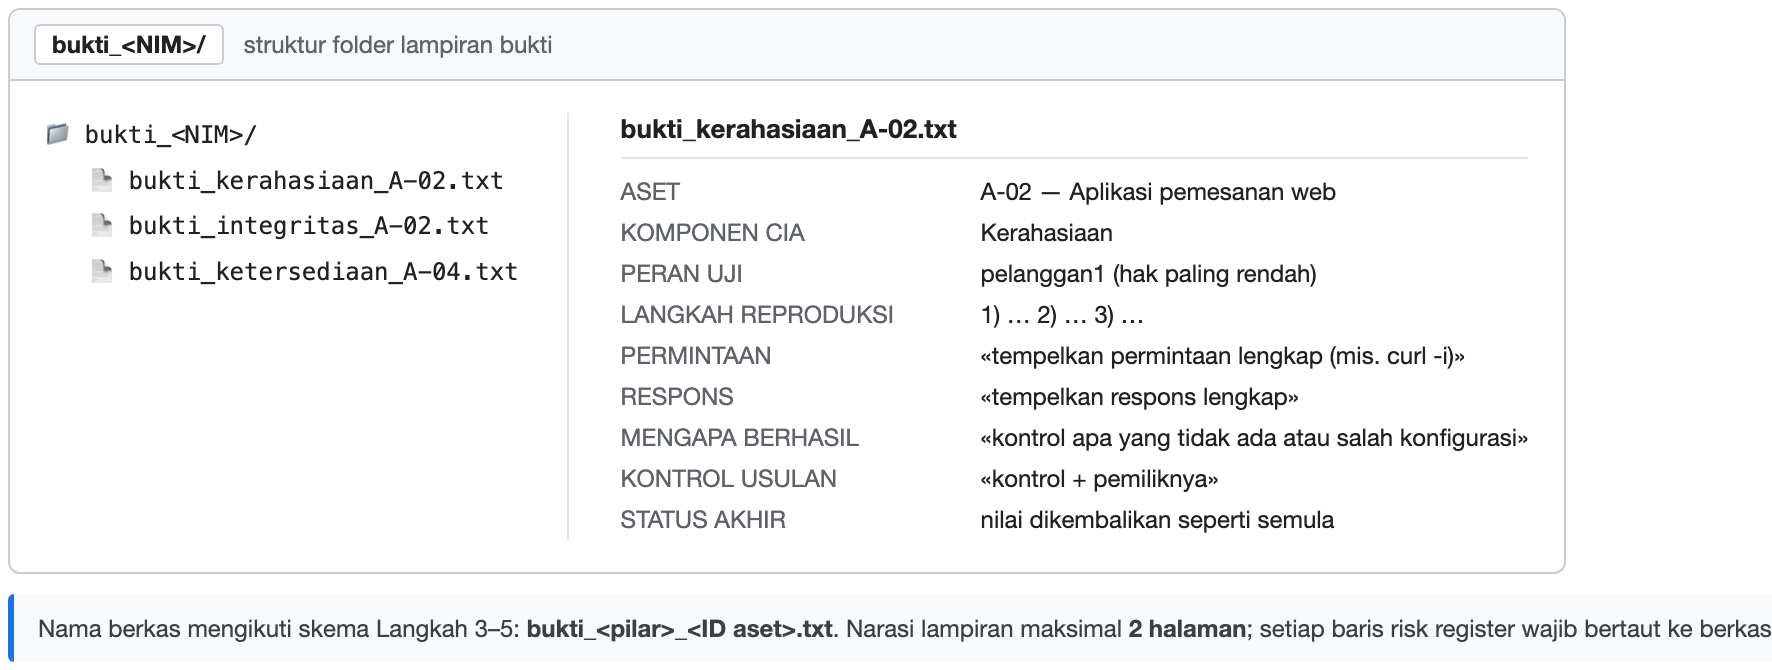
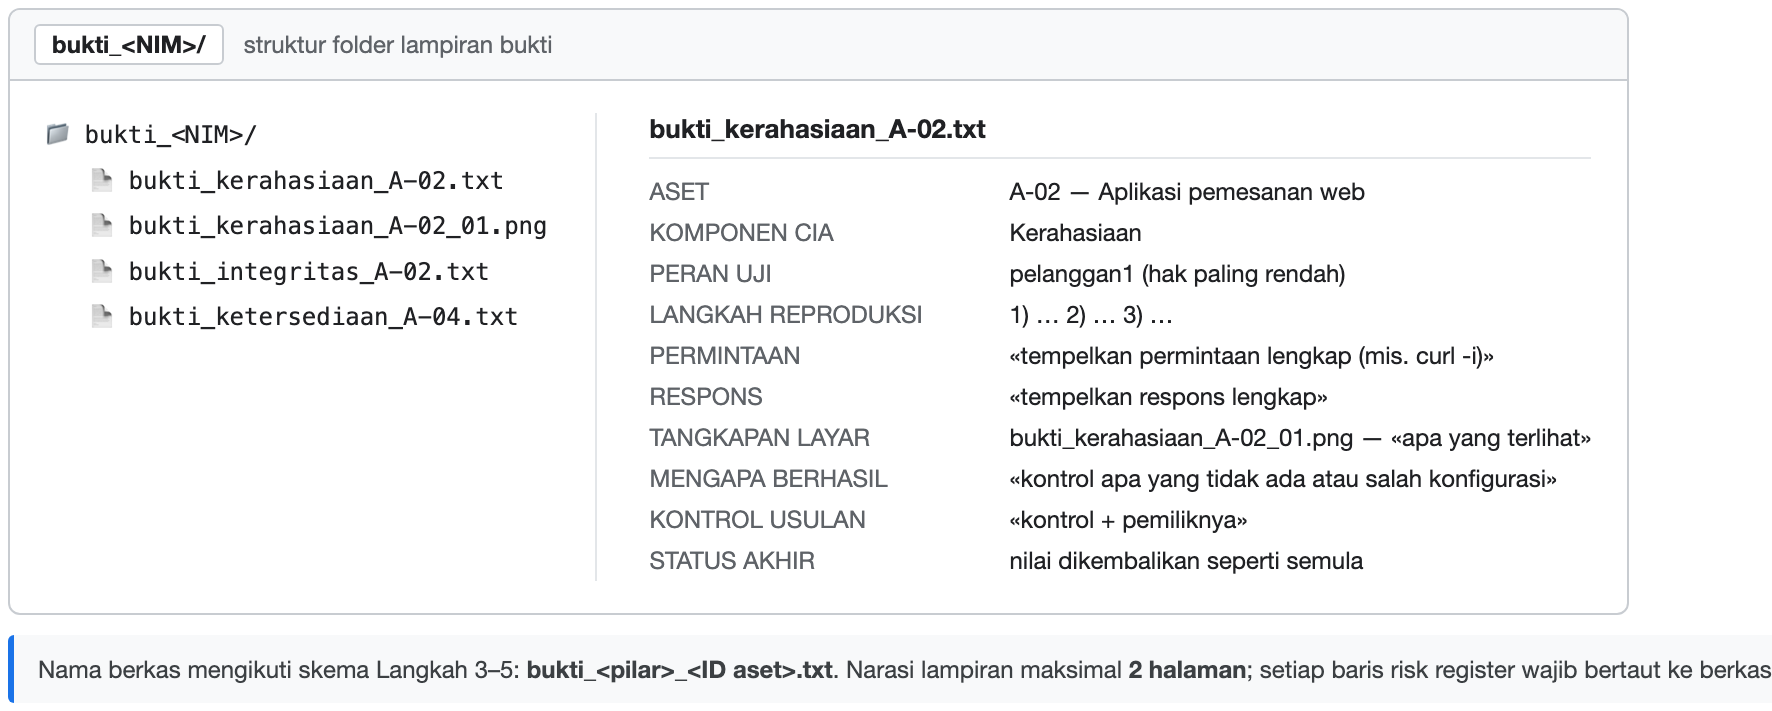
add: templates

diff --git a/README.md b/README.md
@@ -9,7 +9,7 @@ kerahasiaan, integritas, dan ketersediaan pada layanan pemesanan B2B fiktif mili
 
 ---
 
-## ⚠ 1. Baca dulu — aturan main
+## ⚠ 1. Baca dulu
 
 **Sebelum menyentuh apa pun:**
 
@@ -31,6 +31,28 @@ kerahasiaan, integritas, dan ketersediaan pada layanan pemesanan B2B fiktif mili
 |---|---|---|
 | 1 | **Risk register** | Spreadsheet `Praktikum1_<NIM>_<Nama>.xlsx`, 3 sheet: `Inventaris Aset`, `Matriks Risiko`, `Rencana Kontrol` |
 | 2 | **Lampiran bukti** | Folder `bukti_<NIM>/`, narasi maksimal **2 halaman** |
+
+**Template siap isi — Anda tidak perlu membuat berkas dari nol.**
+
+- Salin `template/Praktikum1_template.xlsx` menjadi `Praktikum1_<NIM>_<Nama>.xlsx`. Ketiga sheet
+  sudah ada beserta judul kolomnya, dan **rumus Skor serta Prioritas sudah terpasang** — Anda
+  cukup mengisi sel yang ditandai.
+- Kerangka berkas bukti ada di `template/bukti_kerahasiaan_template.txt`,
+  `template/bukti_integritas_template.txt`, dan `template/bukti_ketersediaan_template.txt`.
+  Salin, ganti namanya sesuai skema `bukti_<pilar>_<ID aset>.txt`, lalu isi.
+
+**Bentuk bukti yang diterima.** Modul dan Lampiran memperbolehkan tiga bentuk: pasangan
+permintaan/respons, **tangkapan layar**, dan potongan log. Pilih yang paling kuat membuktikan
+temuan Anda — ketiganya boleh digabung dalam satu temuan.
+
+| Berkas | Wajib? | Isi |
+|---|---|---|
+| `bukti_<pilar>_<ID aset>.txt` | **ya** | catatan tertulis: permintaan/respons, potongan log, langkah reproduksi |
+| `bukti_<pilar>_<ID aset>_<nn>.png` | opsional | tangkapan layar, **namanya disebut di dalam `.txt`** |
+
+Berkas `.txt` tetap wajib karena itulah yang Anda tautkan pada kolom `Bukti` di risk register.
+Tangkapan layar disimpan berdampingan di folder `bukti_<NIM>/` dan dirujuk dari dalam `.txt`,
+sehingga penilai dapat menemukannya. Contoh: `bukti_kerahasiaan_A-02_01.png`.
 
 **Ambang minimal modul:** ≥10 temuan dengan ID unik, yang memuat **bukti pelanggaran CIA** (
 kerahasiaan, integritas, ketersediaan) yang dapat direproduksi. Temuan tanpa bukti yang
